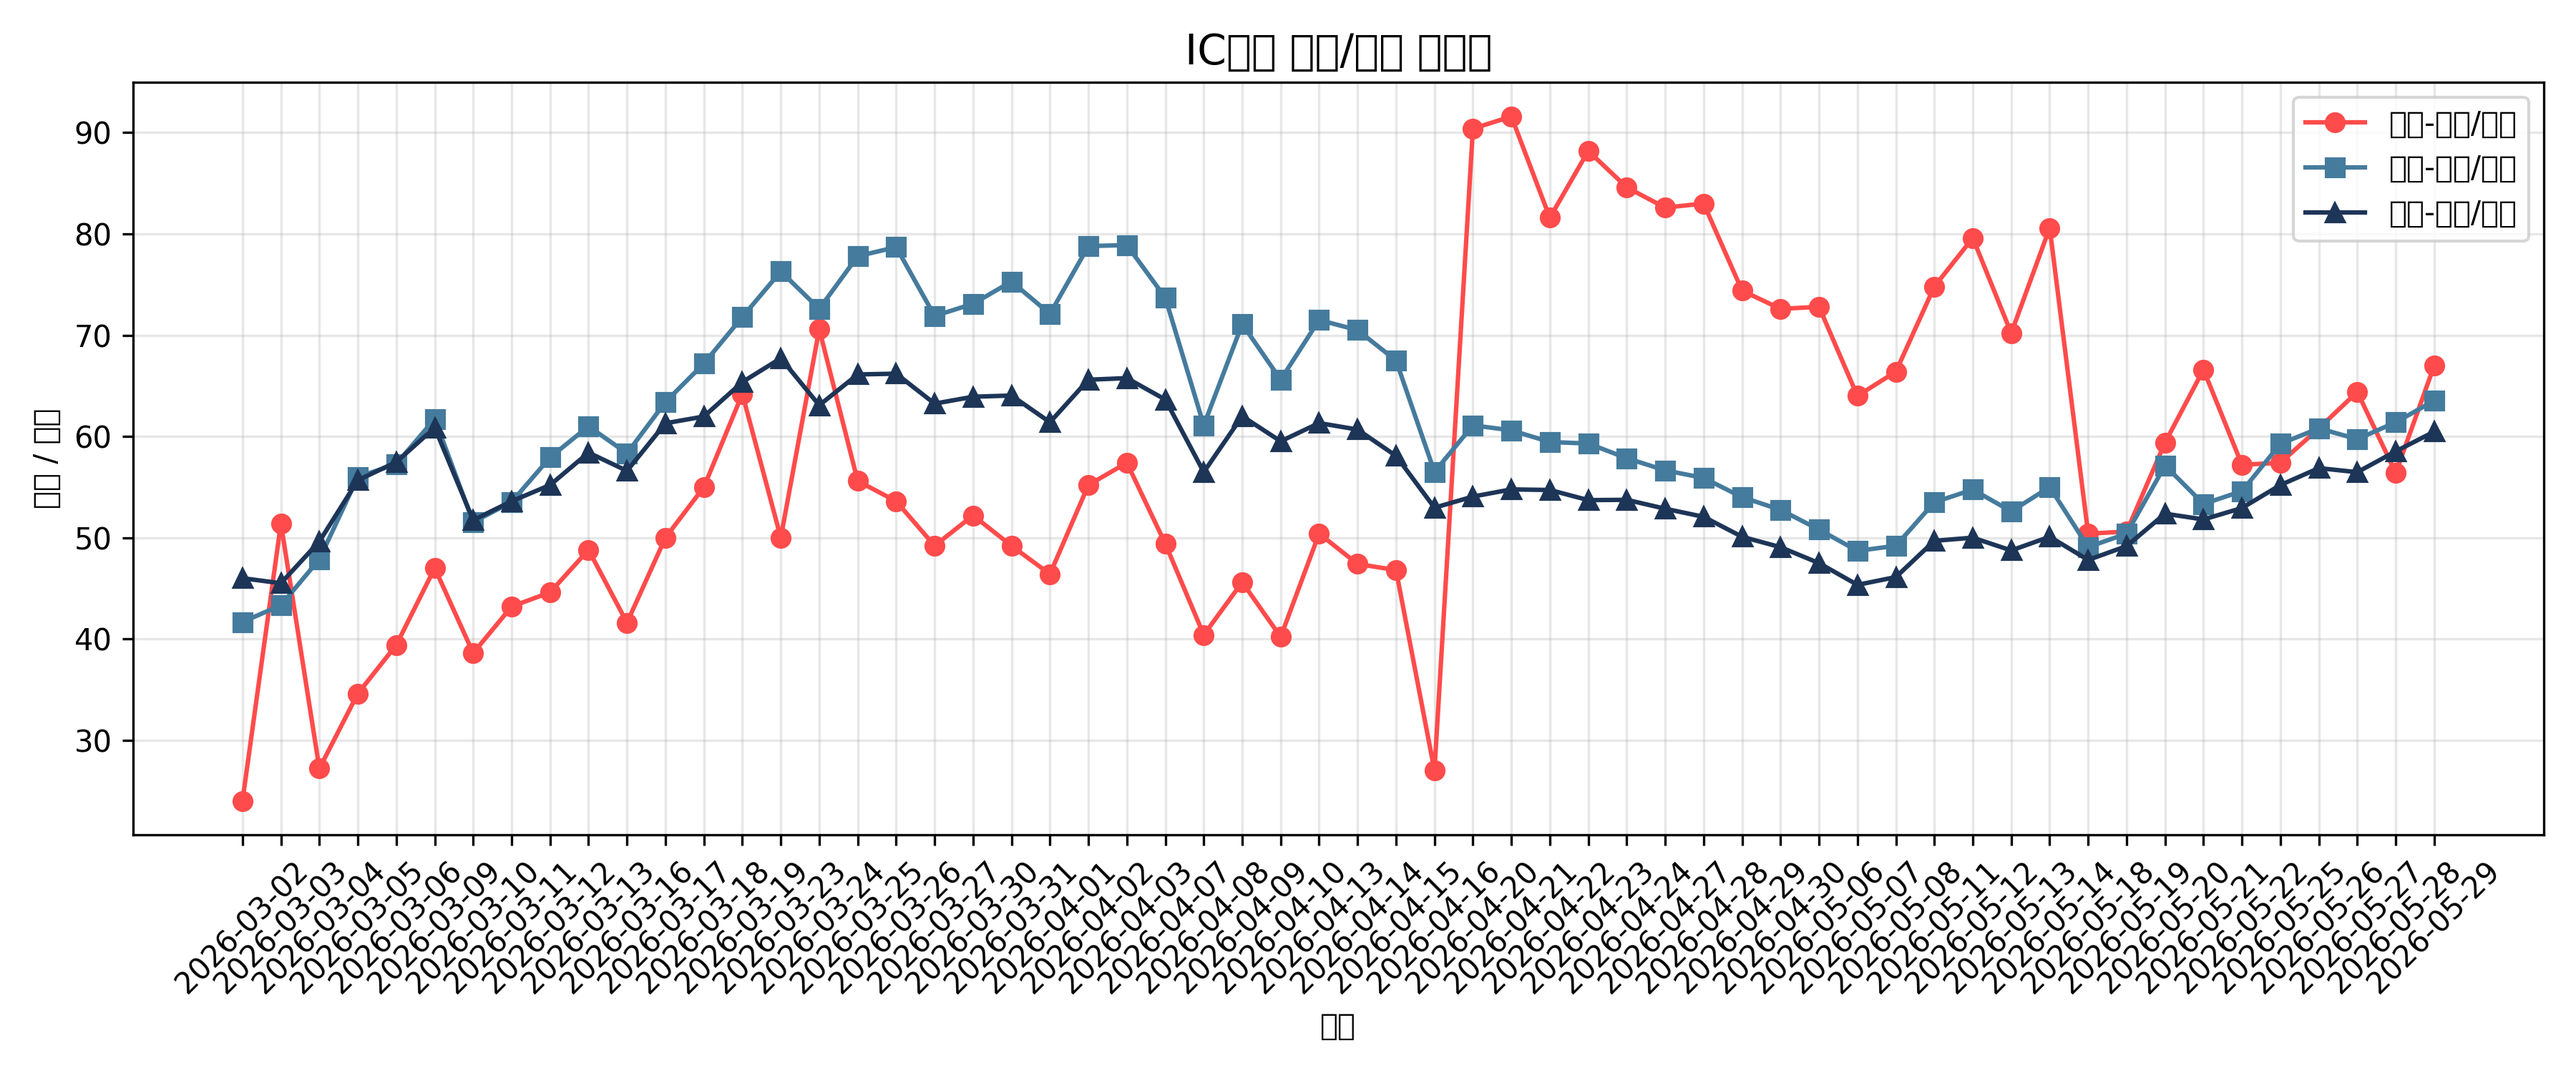
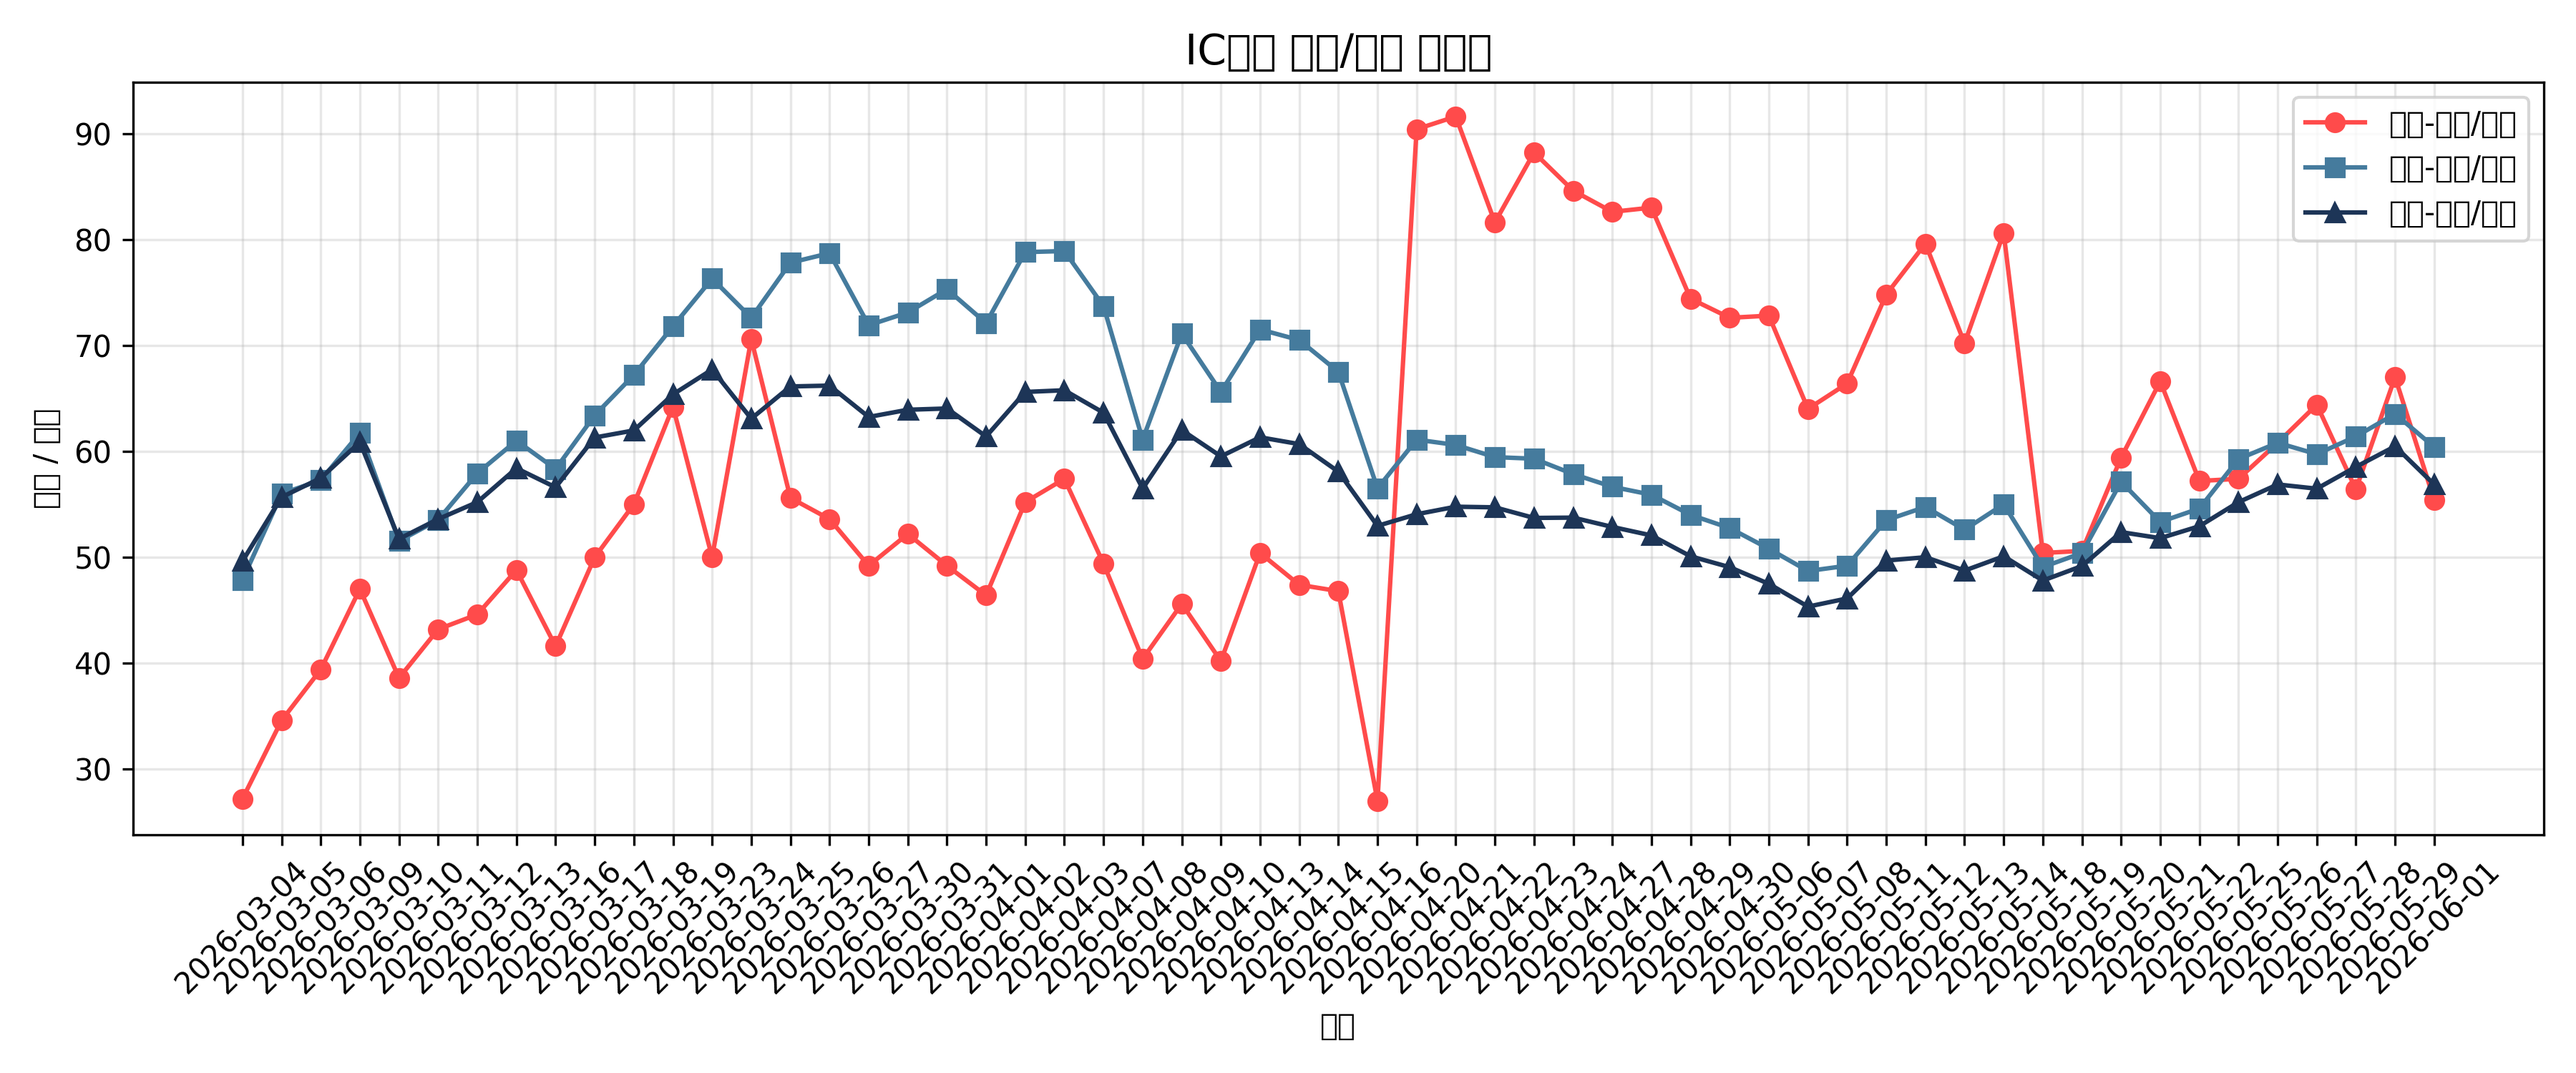
deploy: 4d1bb30b7b0bf8623cc214497fc979b4192c654b

diff --git a/index.html b/index.html
@@ -84,19 +84,19 @@
 <body>
     <div class="container">
         <h1>IC期货基差监控</h1>
-        <div class="last-updated">最后更新：2026-05-29 19:51:02</div>
+        <div class="last-updated">最后更新：2026-06-01 22:37:15</div>
         
         <div class="stats">
             <div class="stat-card">
-                <div class="stat-value">67.0</div>
+                <div class="stat-value">55.4</div>
                 <div class="stat-label">当月-下月/月差</div>
             </div>
             <div class="stat-card">
-                <div class="stat-value">63.53</div>
+                <div class="stat-value">60.4</div>
                 <div class="stat-label">当月-当季/月差</div>
             </div>
             <div class="stat-card">
-                <div class="stat-value">60.47</div>
+                <div class="stat-value">56.87</div>
                 <div class="stat-label">当月-下季/月差</div>
             </div>
         </div>
@@ -114,14 +114,6 @@
                 <th>当月-下月/月差</th>
                 <th>当月-当季/月差</th>
                 <th>当月-下季/月差</th>
-            </tr>
-
-            <tr>
-                <td>2026-05-21</td>
-                <td>IC2606</td>
-                <td>66.6</td>
-                <td>53.33</td>
-                <td>51.8</td>
             </tr>
 
             <tr>
@@ -170,6 +162,14 @@
                 <td>67.0</td>
                 <td>63.53</td>
                 <td>60.47</td>
+            </tr>
+
+            <tr>
+                <td>2026-06-01</td>
+                <td>IC2606</td>
+                <td>55.4</td>
+                <td>60.4</td>
+                <td>56.87</td>
             </tr>
 
         </table>
